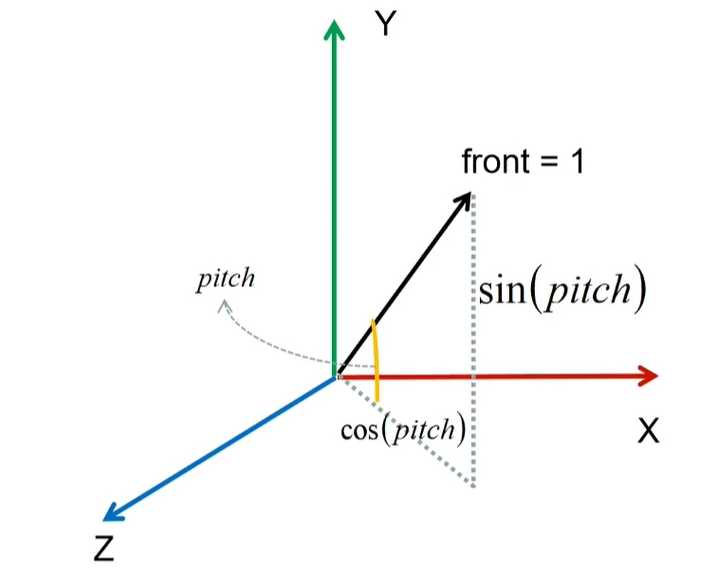
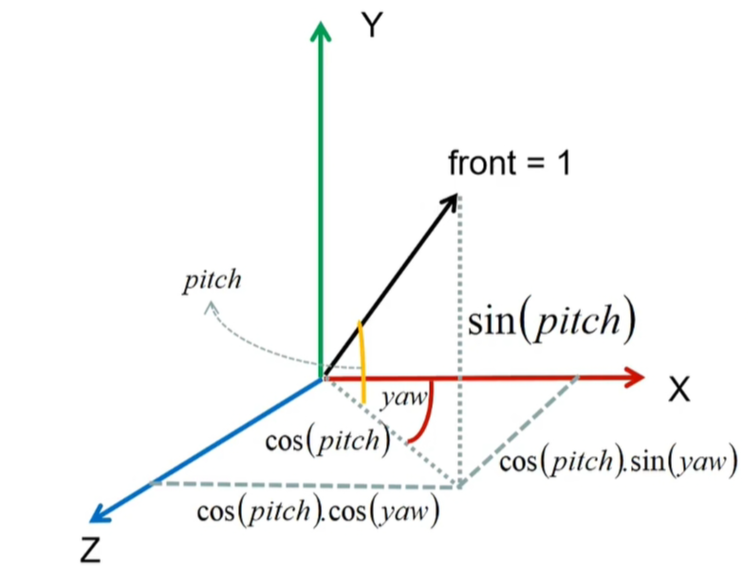
vault backup: 2024-04-20 18:52:38

Changed region(s): [[0.0912, 0.0, 1.0, 0.988]]

diff --git a/计算机图形学—从0开始构建一个OpenGL软光栅/摄像机系统.md b/计算机图形学—从0开始构建一个OpenGL软光栅/摄像机系统.md
@@ -27,4 +27,9 @@ float mSensitivity{0.1f};
 
 ![[（图解82）摄像机旋转.png|350]]
 
-如图所示，$\vec{front}$向量在y
+如图所示，$\vec{front}$单位向量在各个方向上的分量为：
+$$\begin{align}
+front.x & = \cos(pitch)\cos(yaw)\\
+front.y & = \sin(pitch)\\
+fron.z &= \cos(pitch)\sin(yaw)
+\end{align}$$
